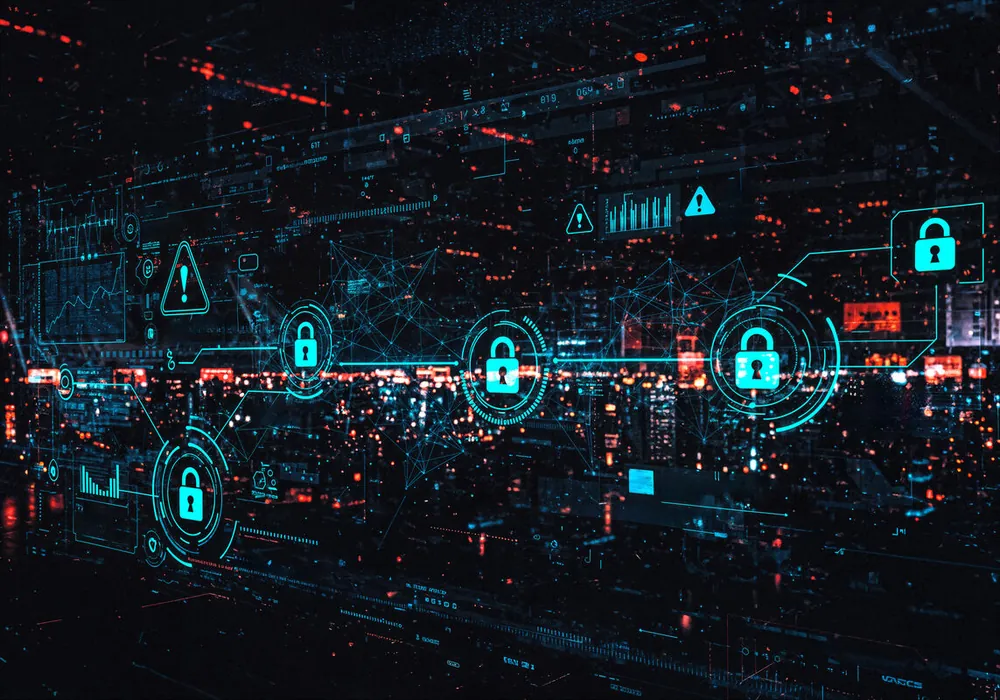
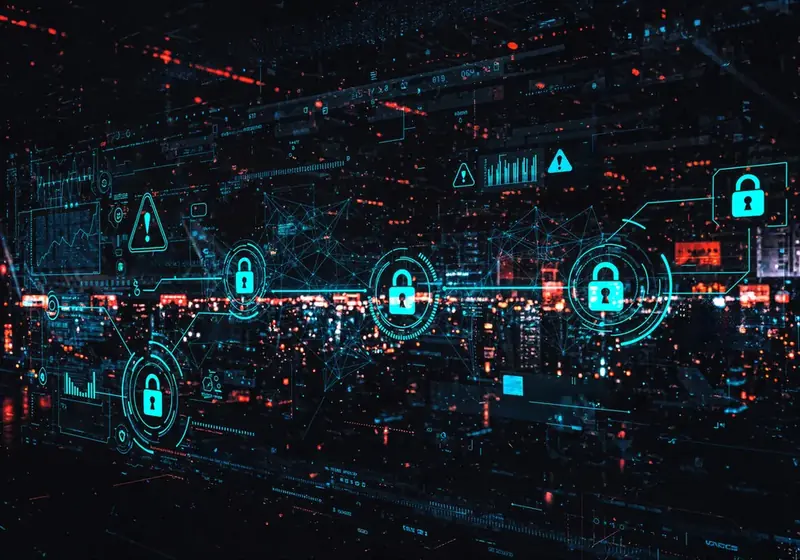
perf: la prima immagine della Home arriva prima
Con cab9bed le tre immagini in cima alla Home avevano preso il caricamento
ritardato, ma sono le prime che si vedono: sul telefono la prima e'
l'elemento piu' grande della schermata (LCP). Ora si caricano subito, e la
prima con fetchpriority=high. Pesava anche cinque volte le altre due (118
KB): ricodificata a 800 px, circa il doppio della misura a cui si vede come
le altre foto del sito, pesa 62 KB e a quella misura non si distingue
dall'originale. Su 4G lento emulato, a cache vuota (mediana di tre
caricamenti), l'LCP scende da 2,41 a 2,13 s sul telefono e da 2,42 a 1,71 s
sul computer; il primo disegno non cambia.

diff --git a/src/pages/Home.jsx b/src/pages/Home.jsx
@@ -36,24 +36,27 @@ const Home = () => {
           <header>
             <h2>{t('home.features.title')} <strong>{t('home.features.titleBold')}</strong></h2>
           </header>
+          {/* Le tre immagini sono le prime che si vedono (sul telefono la prima e'
+              l'elemento piu' grande della schermata): niente caricamento ritardato,
+              e la prima parte con la precedenza piu' alta. */}
           <div className="row aln-center">
             <div className="col-4 col-6-medium col-12-small">
               <section>
-                <span className="image featured"><img src="images/img5.webp" alt="Cybersecurity" width="1000" height="700" loading="lazy" decoding="async" /></span>
+                <span className="image featured"><img src="images/img5.webp" alt="Cybersecurity" width="800" height="560" fetchPriority="high" decoding="async" /></span>
                 <header><h3>{t('home.features.cyber.title')}</h3></header>
                 <p>{t('home.features.cyber.text')}</p>
               </section>
             </div>
             <div className="col-4 col-6-medium col-12-small">
               <section>
-                <span className="image featured"><img src="images/img6.webp" alt="Web Development" width="1000" height="666" loading="lazy" decoding="async" /></span>
+                <span className="image featured"><img src="images/img6.webp" alt="Web Development" width="1000" height="666" decoding="async" /></span>
                 <header><h3>{t('home.features.fullstack.title')}</h3></header>
                 <p>{t('home.features.fullstack.text')}</p>
               </section>
             </div>
             <div className="col-4 col-6-medium col-12-small">
               <section>
-                <span className="image featured"><img src="images/img7.webp" alt="DevOps" width="1000" height="667" loading="lazy" decoding="async" /></span>
+                <span className="image featured"><img src="images/img7.webp" alt="DevOps" width="1000" height="667" decoding="async" /></span>
                 <header><h3>{t('home.features.devops.title')}</h3></header>
                 <p>{t('home.features.devops.text')}</p>
               </section>
